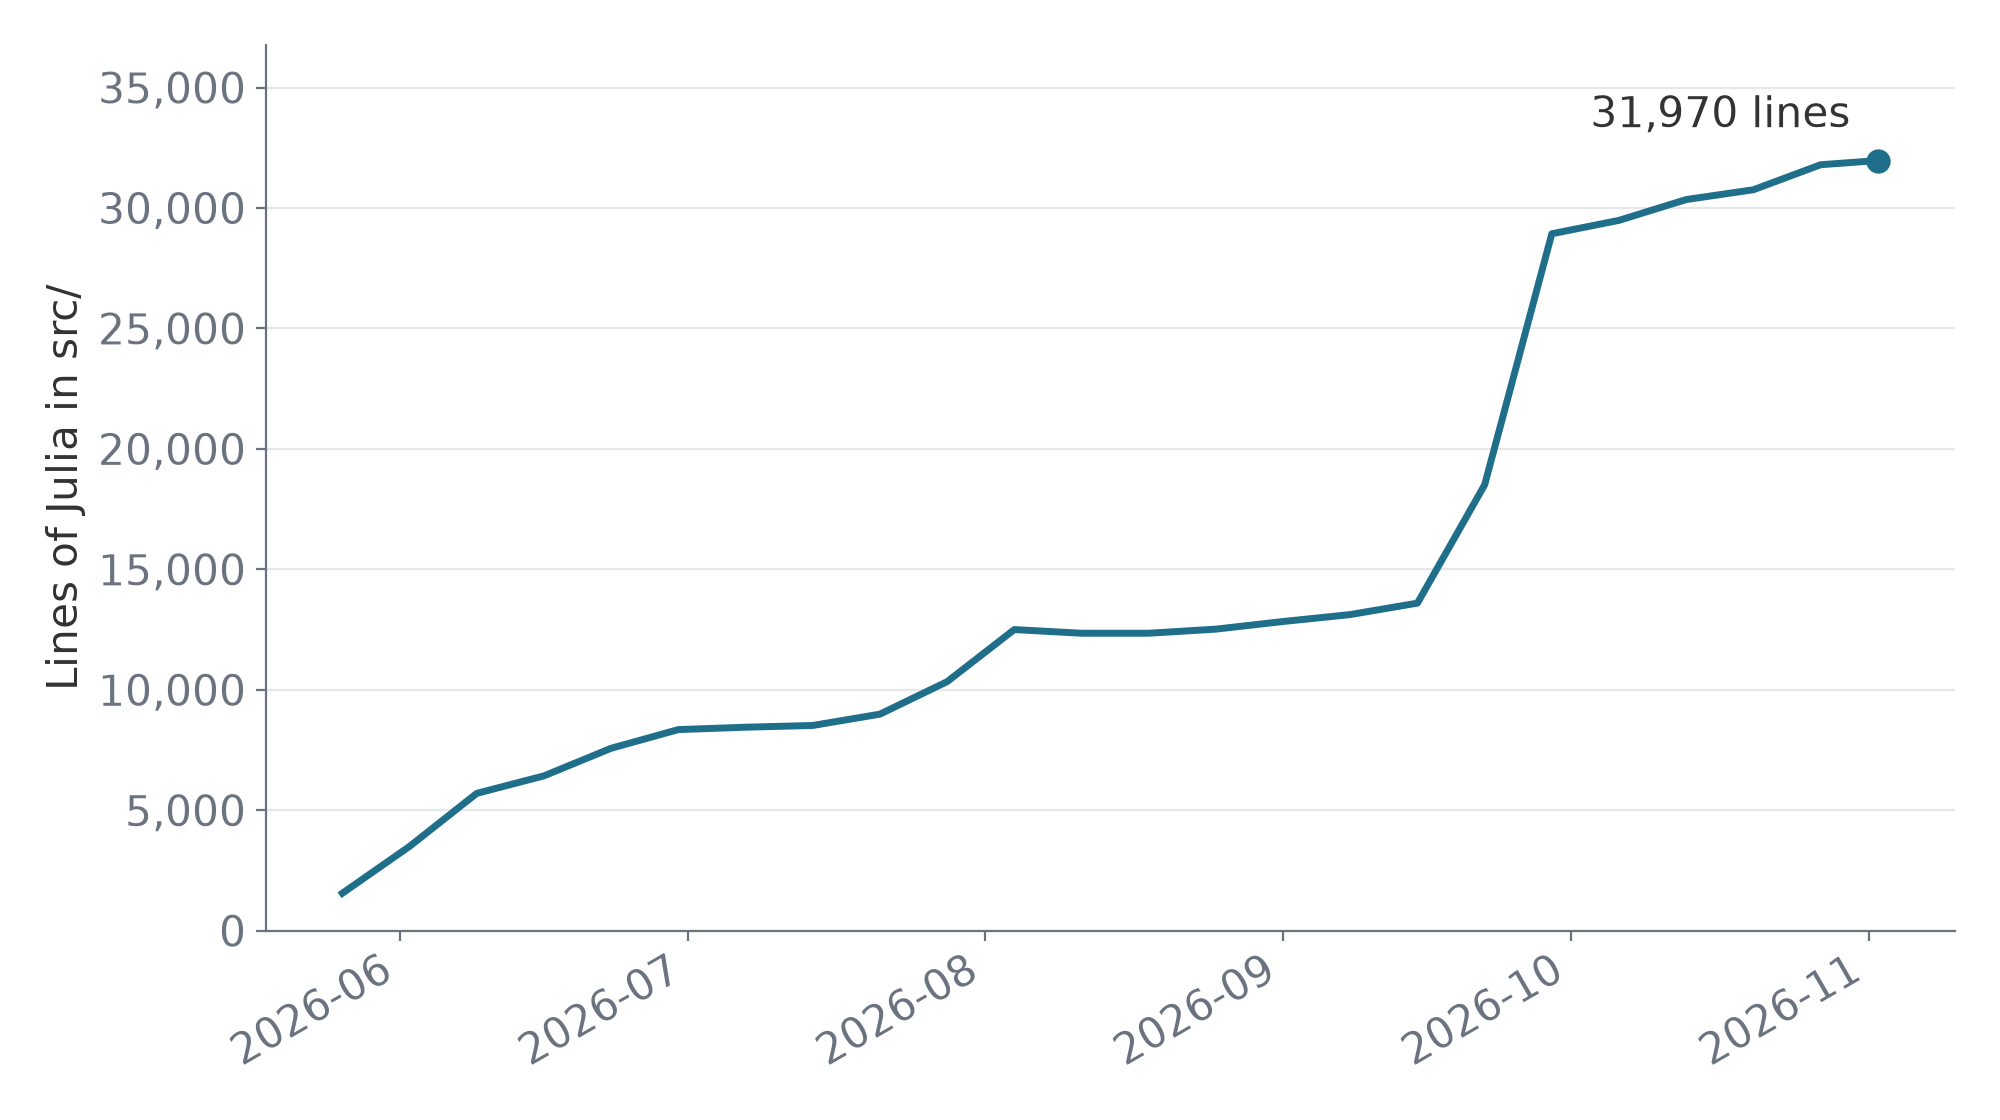
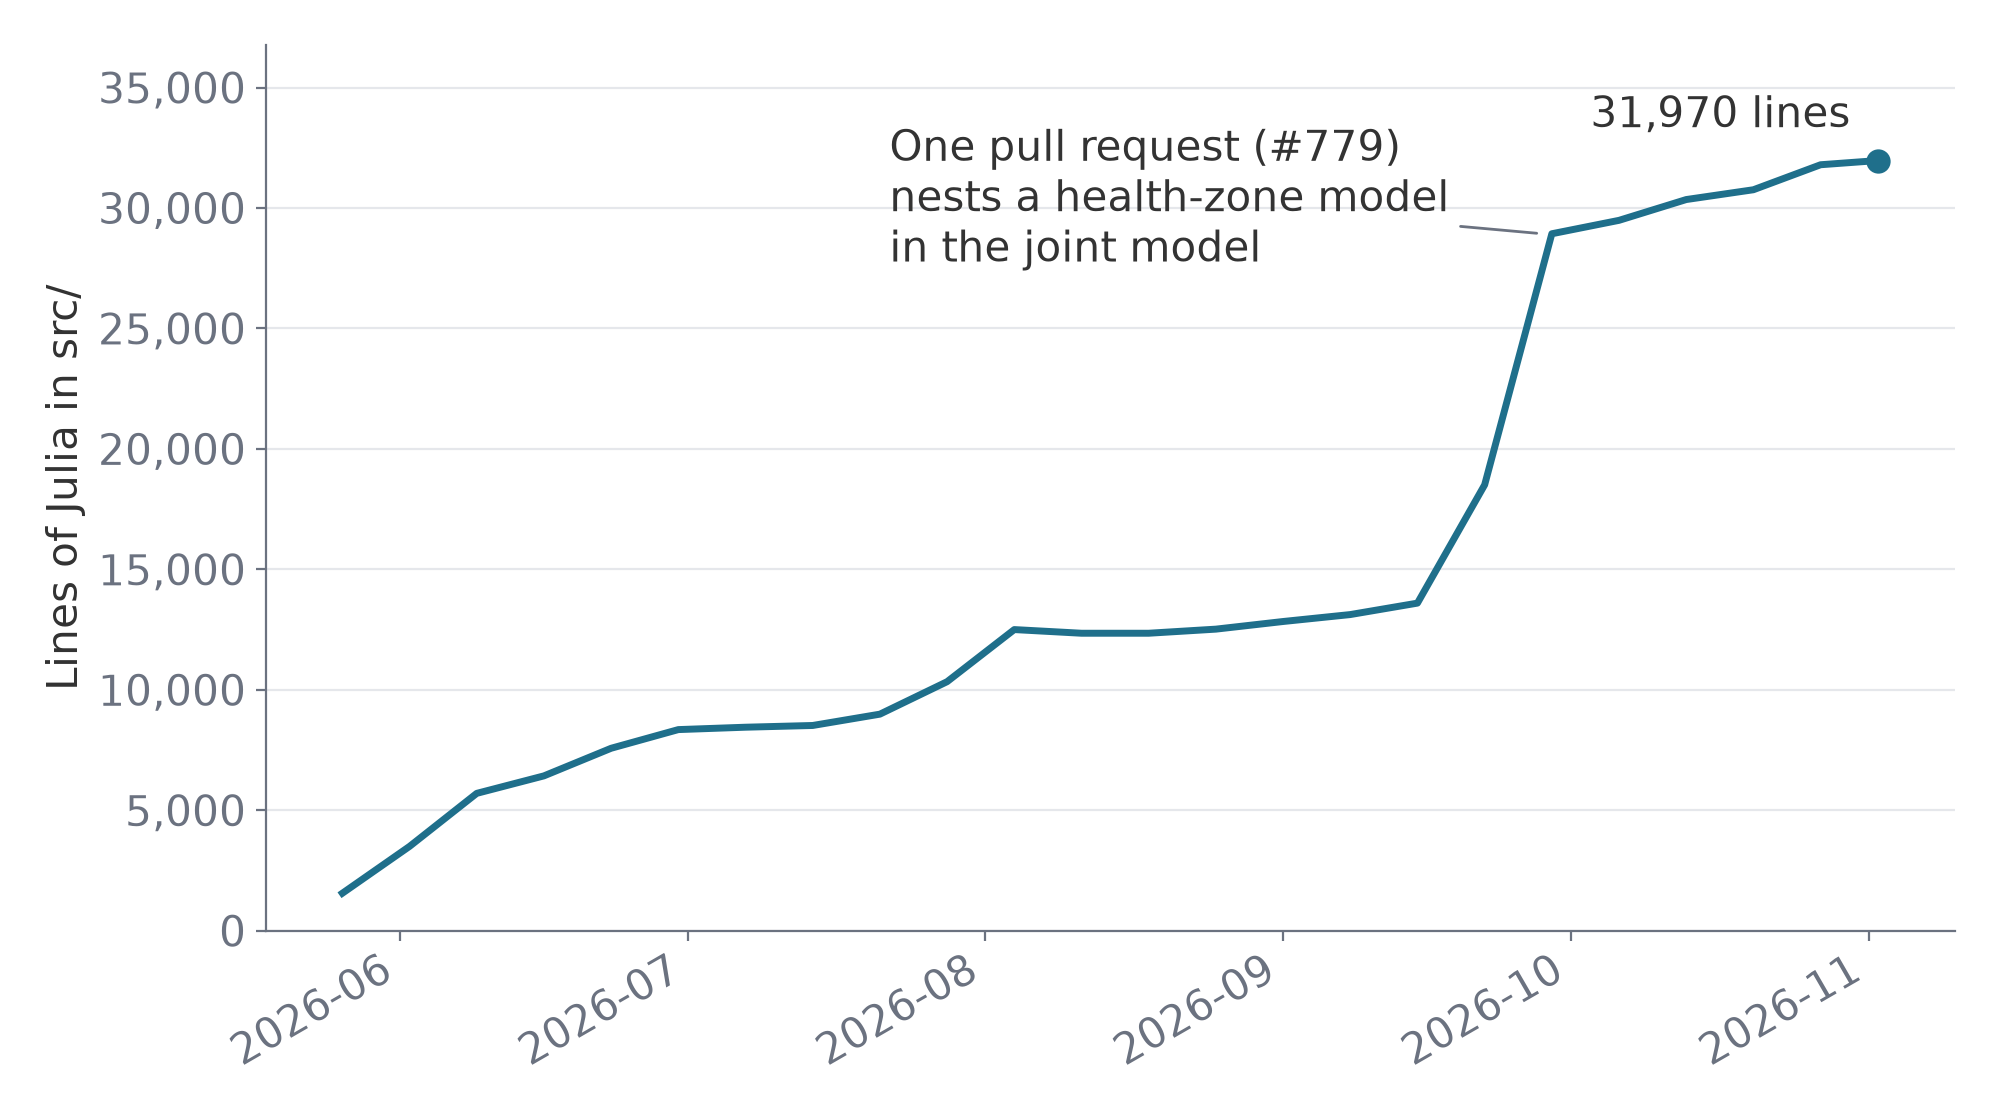
feat: act on the first review and add figures from other groups
FluSight forecasts (Mathis et al. 2024) and the ERA tree search
(Martinson et al. 2026) replace two of our own figures, and EpidemIQs is
cited as another group's agentic system. Review fixes are logged in
notes/review-1.md, with the two not applied and why.

Changed region(s): [[0.434, 0.0938, 0.744, 0.25]]

diff --git a/scripts/agents-bvd-growth.py b/scripts/agents-bvd-growth.py
@@ -57,6 +57,17 @@ ax.annotate(
     ha="right",
     color=ink,
 )
+# The health-zone model, one pull request, merged 28 September 2026.
+zone = date(2026, 9, 28)
+zone_y = lines[min(range(len(days)), key=lambda i: abs(days[i] - zone))]
+ax.annotate(
+    "One pull request (#779)\nnests a health-zone model\nin the joint model",
+    (zone, zone_y),
+    xytext=(-235, -10),
+    textcoords="offset points",
+    color=ink,
+    arrowprops={"arrowstyle": "-", "color": muted},
+)
 ax.set_ylabel("Lines of Julia in src/", color=ink)
 ax.set_ylim(0, max(lines) * 1.15)
 ax.yaxis.set_major_formatter(lambda v, _: f"{v:,.0f}")

diff --git a/notes/review-1.md b/notes/review-1.md
@@ -1,0 +1,36 @@
+# Review 1, 2 November 2026
+
+An independent review agent read the deck against the brief, the steers,
+`style.md` and `llmisms.md`, with the rendered screenshots.
+
+## Applied
+
+- Bracher and Funk now attach to Aygün et al., not to Martinson et al.
+- The compute line is flagged as a guess, and says candidate models.
+- Bundibugyo slide: "every stream" claim cut, WHO DON602 and dates cited.
+- "At every step of the workflow" cut. It contradicted the figure.
+- Long bullets trimmed. Bolted-on clauses split.
+- Theory bullet names the generalised gamma integral.
+- #445 dropped from the dangers citation. #779 cited and marked on the
+  growth chart.
+- Citations made consistent, author year and link.
+- Montage captions centred and shortened.
+- Summary carries the complexity danger and says review.
+- Tree search slide uses figure 2 of Martinson et al. in place of the
+  arXiv abstract.
+
+## Not applied
+
+- Swapping the sitrep page for the onset raster. Sam asked for the sitrep
+  PDF image on this slide in the AIandIDVUB keynote notes. Height capped
+  instead.
+- Retitling the tree search slide "Evaluation is easy to fool". A slogan.
+  It takes the keynote title Sam already approved.
+
+## From the figure search
+
+Figures from other groups now in the deck: Meltzer et al. 2014 (public
+domain), Mathis et al. 2024 (CC BY), Martinson et al. 2026 figure 2
+(CC BY-NC-SA, fine for a non-commercial talk with attribution), and a
+citation to Samaei et al. 2025 (EpidemIQs). Unused candidates are listed
+in issue #8.
